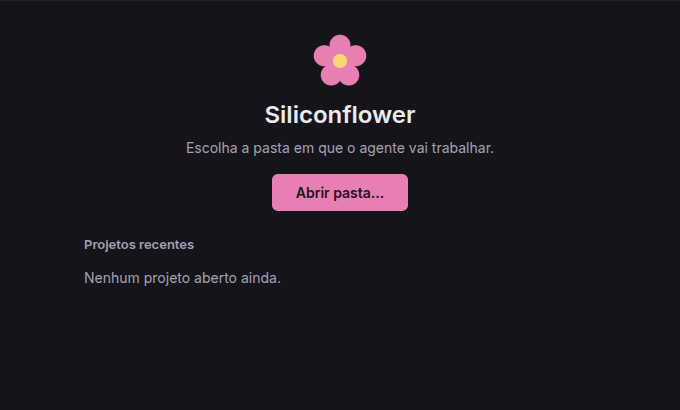
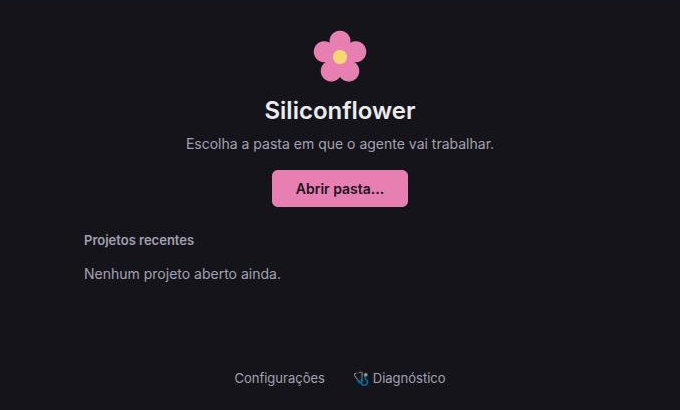
feat: nova captura da tela inicial do Siliconflower, com o Diagnóstico

diff --git a/siliconflower/index.html b/siliconflower/index.html
@@ -415,7 +415,7 @@
           <div class="window-bar" aria-hidden="true"><i></i><i></i><i></i><span>Siliconflower</span></div>
           <picture>
             <source srcset="tela-inicio.webp" type="image/webp">
-            <img src="tela-inicio.png" width="680" height="410" loading="lazy" alt="Tela inicial do Siliconflower com a flor, o botão “Abrir pasta...” e a lista de projetos recentes">
+            <img src="tela-inicio.png" width="680" height="410" loading="lazy" alt="Tela inicial do Siliconflower com a flor, o botão “Abrir pasta...”, a lista de projetos recentes e, no rodapé, Configurações e 🩺 Diagnóstico">
           </picture>
         </figure>
       </div>
